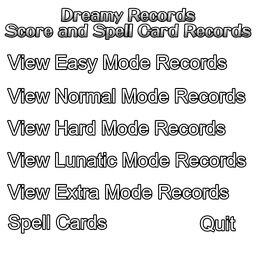
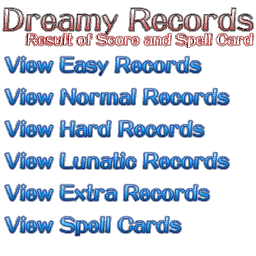
Redraw the English records menu in the original text style
tools/menu_text_art.py measures how an original sprite colors each pixel by row, distance from the glyph edge and edge direction. New text drawn at the original size takes the same gradient, outline, bevel and glow.

The records menu rows, Dreamy Records and the subtitle now use DF Popcorn W12 in those measured styles. Rows read View Easy Records and so on, which fits the sprite at the original size. The subtitle and Quit keep the original pixels.

result01 is English in the original, so its overlay is removed and English uses the original sheet.

diff --git a/tools/menu_text_art.py b/tools/menu_text_art.py
@@ -1,0 +1,206 @@
+"""Draw English menu text in the style of an original Japanese sprite.
+
+measure() records how the original sprite colors each pixel, keyed by:
+- the sprite row, which carries vertical gradients
+- the signed distance to the edge of the solid glyph area, which carries
+  outlines inside the edge and glows outside it
+- the direction the nearest edge faces, which carries bevel highlights
+render() colors new glyphs by looking up the same keys. English text drawn at
+the original size and baseline therefore takes the original's gradient,
+outline, bevel and glow.
+"""
+import numpy as np
+from PIL import Image, ImageDraw, ImageFont
+from scipy import ndimage
+
+SS = 4
+SOLID = 238
+# Signed distance buckets in half pixels, from 6 px outside to 4 px inside.
+DISTANCES = np.arange(-12, 9)
+
+
+def features(area_hi, sub_pixels=False):
+    """Signed distance and edge direction for a supersampled mask.
+
+    Returns one value per pixel, or one per sub-pixel when sub_pixels is true.
+    """
+    inside = ndimage.distance_transform_edt(area_hi)/SS
+    outside = ndimage.distance_transform_edt(~area_hi)/SS
+    smooth = ndimage.gaussian_filter(area_hi.astype(float), 1.5*SS)
+    gy, gx = np.gradient(smooth)
+    # Sub-pixel distances are measured from the edge between solid and clear
+    # sub-pixels, so shift them by half a sub-pixel toward zero.
+    signed = inside - outside + np.where(area_hi, -.5, .5)/SS
+    if not sub_pixels:
+        signed = (inside - outside)[SS//2::SS, SS//2::SS]
+        gy, gx = gy[SS//2::SS, SS//2::SS], gx[SS//2::SS, SS//2::SS]
+    length = np.hypot(gx, gy) + 1e-9
+    # Coverage rises toward the glyph, so the gradient points inward.
+    # direction 0: edge faces up, 1: sideways, 2: edge faces down.
+    ny = gy/length
+    direction = np.where(ny > .4, 0, np.where(ny < -.4, 2, 1))
+    # Edge direction matters only near the edge. Deeper pixels share one key.
+    direction = np.where(np.abs(signed) <= 1.5, direction, 1)
+    bucket = np.clip(np.round(signed*2).astype(int), DISTANCES[0], DISTANCES[-1]) - DISTANCES[0]
+    return bucket, direction
+
+
+def measure(sprite, ignore=None):
+    """Build the color table of an original sprite.
+
+    Pixels where ignore is true belong to other text and are left out.
+    """
+    pixels = np.asarray(sprite.convert('RGBA')).astype(float)
+    alpha = pixels[..., 3:]/255
+    premultiplied = pixels[..., :3]*alpha
+    area = np.kron(pixels[..., 3] >= SOLID, np.ones((SS, SS))).astype(bool)
+    bucket, direction = features(area)
+    valid = np.ones(alpha.shape[:2], bool) if ignore is None else ~ignore
+    height = len(pixels)
+    sums = np.zeros((height, len(DISTANCES), 3, 5))
+    for y in range(height):
+        for x in np.nonzero(valid[y])[0]:
+            sums[y, bucket[y, x], direction[y, x]] += [*premultiplied[y, x], alpha[y, x, 0], 1]
+    return sums
+
+
+def lookup(sums, y, bucket, direction):
+    """Mean premultiplied color and alpha, widening the search when a key is empty."""
+    for rows in (1, 2, 4, 8, 64):
+        lo, hi = max(0, y - rows), y + rows + 1
+        for dirs in ((direction,), (0, 1, 2)):
+            for spread in (0, 1, 2):
+                b0, b1 = max(0, bucket - spread), bucket + spread + 1
+                total = sums[lo:hi, b0:b1][:, :, list(dirs)].sum((0, 1, 2))
+                if total[4] > 0:
+                    return total[:4]/total[4]
+    return np.zeros(4)
+
+
+def glyphs(text, font_path, size, x, y, width, height, scale_x=1.0, track=0.0):
+    """Supersampled glyph mask with the text origin at (x, y).
+
+    track adds that many pixels between characters.
+    """
+    font = ImageFont.truetype(str(font_path), round(size*SS))
+    line = Image.new('L', (int(font.getlength(text) + max(track, 0)*SS*len(text)) + 16*SS, height*SS))
+    draw = ImageDraw.Draw(line)
+    if track:
+        cursor = 0.0
+        for character in text:
+            draw.text((round(cursor), round(y*SS)), character, font=font, fill=255)
+            cursor += font.getlength(character) + track*SS
+    else:
+        draw.text((0, round(y*SS)), text, font=font, fill=255)
+    if scale_x != 1.0:
+        line = line.resize((max(1, round(line.width*scale_x)), line.height), Image.Resampling.LANCZOS)
+    mask = Image.new('L', (width*SS, height*SS))
+    mask.paste(line, (round(x*SS), 0))
+    return np.asarray(mask) > 127
+
+
+def solid(glyph, outline):
+    radius = round(outline*SS)
+    if radius <= 0:
+        return glyph
+    y, x = np.mgrid[-radius:radius + 1, -radius:radius + 1]
+    return ndimage.binary_dilation(glyph, structure=x*x + y*y <= radius*radius)
+
+
+def coverage(mask):
+    h, w = mask.shape[0]//SS, mask.shape[1]//SS
+    return mask.reshape(h, SS, w, SS).mean((1, 3))
+
+
+def ink_width(text, font_path, size, scale_x=1.0, track=0.0):
+    mask = glyphs(text, font_path, size, 0, 0, 1024, round(size*2), scale_x, track)
+    columns = np.nonzero(mask.any(0))[0]
+    return (columns.max() + 1 - columns.min())/SS, columns.min()/SS
+
+
+def fit(sprite, text, font_path, sizes, outlines=(0, .5, 1, 1.5), stretches=(1.0,), tracks=(0.0,)):
+    """Find size, stretch, spacing, origin and outline that best cover the original solid area."""
+    target = np.asarray(sprite.convert('RGBA'))[..., 3] >= SOLID
+    height, width = target.shape
+    rows, cols = np.nonzero(target.any(1))[0], np.nonzero(target.any(0))[0]
+    best = (-1,)
+    for size, stretch, track in ((s, st, tr) for s in sizes for st in stretches for tr in tracks):
+            probe = glyphs(text, font_path, size, 0, 0, width + 64, height + 32, stretch, track)
+            pr, pc = np.nonzero(probe.any(1))[0], np.nonzero(probe.any(0))[0]
+            for outline in outlines:
+                x0 = cols.min() + outline - pc.min()/SS
+                y0 = rows.min() + outline - pr.min()/SS
+                for dx in (-.5, 0, .5):
+                    for dy in (-.5, 0, .5):
+                        area = solid(glyphs(text, font_path, size, x0 + dx, y0 + dy, width, height, stretch, track), outline)
+                        mask = coverage(area) >= .5
+                        score = (mask & target).sum()/max((mask | target).sum(), 1)
+                        if score > best[0]:
+                            best = (score, size, stretch, track, x0 + dx, y0 + dy, outline)
+    return dict(zip(('score', 'size', 'stretch', 'track', 'x', 'y', 'outline'), best))
+
+
+def render(glyph, outline, sums, sharp=True):
+    """Color a glyph mask from a measured color table. Returns a 4-bit RGBA image.
+
+    sharp colors each pixel at its center and blends the two nearest distance
+    buckets, which keeps the crisp highlight and outline rows of the originals.
+    Otherwise each sub-pixel takes its own color and the result is averaged down.
+    """
+    area = solid(glyph, outline)
+    height, width = area.shape[0]//SS, area.shape[1]//SS
+    cache = {}
+    def color(y, bucket, direction):
+        key = (y, bucket, direction)
+        if key not in cache:
+            cache[key] = lookup(sums, *key)
+        return cache[key]
+    if sharp:
+        inside = ndimage.distance_transform_edt(area)/SS
+        outside = ndimage.distance_transform_edt(~area)/SS
+        signed = (inside - outside)[SS//2::SS, SS//2::SS]
+        _, direction = features(area)
+        position = np.clip(signed*2, DISTANCES[0], DISTANCES[-1]) - DISTANCES[0]
+        low = np.floor(position).astype(int)
+        high = np.minimum(low + 1, len(DISTANCES) - 1)
+        weight = (position - low)[..., None]
+        out = np.zeros((height, width, 4))
+        for y in range(height):
+            for x in range(width):
+                d = direction[y, x]
+                out[y, x] = color(y, low[y, x], d)*(1 - weight[y, x]) + color(y, high[y, x], d)*weight[y, x]
+    else:
+        bucket, direction = features(area, sub_pixels=True)
+        rows = np.repeat(np.arange(height), SS)[:, None]*np.ones((1, width*SS), int)
+        keys = np.stack([rows, bucket, direction], -1)
+        unique, inverse = np.unique(keys.reshape(-1, 3), axis=0, return_inverse=True)
+        table = np.array([color(*key) for key in unique])
+        out = table[inverse.ravel()].reshape(height, SS, width, SS, 4).mean((1, 3))
+    alpha = out[..., 3]
+    rgb = np.where(alpha[..., None] > 1e-4, out[..., :3]/np.maximum(alpha[..., None], 1e-4), 0)
+    def quantize(v): return (np.clip(np.round(v/17), 0, 15)*17).astype(np.uint8)
+    return Image.fromarray(np.dstack([quantize(rgb), quantize(alpha*255)]), 'RGBA')
+
+
+def redraw(sprite, original_text, text, font_path, sizes, max_width=None, align='left',
+           stretches=(1.0, 1.05, 1.1, 1.15, 1.2)):
+    """Measure the original sprite and draw text in its place and style.
+
+    The English text uses the fitted size, stretch and baseline. Text wider
+    than max_width is condensed horizontally.
+    """
+    sums = measure(sprite)
+    geometry = fit(sprite, original_text, font_path, sizes, stretches=stretches)
+    width, height = sprite.size
+    max_width = max_width or width - 2*geometry['x']
+    ink, offset = ink_width(text, font_path, geometry['size'], geometry['stretch'])
+    scale = min(1.0, max_width/ink)
+    stretch = geometry['stretch']*scale
+    if align == 'left':
+        x = geometry['x']
+    elif align == 'center':
+        x = (width - ink*scale)/2 - offset*scale
+    else:
+        x = width - geometry['x'] - ink*scale - offset*scale
+    glyph = glyphs(text, font_path, geometry['size'], x, geometry['y'], width, height, stretch)
+    return render(glyph, geometry['outline'], sums), geometry, scale

diff --git a/tools/prepare_records_ui.py b/tools/prepare_records_ui.py
@@ -1,58 +1,115 @@
-"""Generate the records menu's clean, aligned English overlays."""
+"""Generate the records menu's English overlay in the original text style.
+
+Usage:
+    python tools/prepare_records_ui.py <converted assets> <popw12.ttf>
+
+<converted assets> is a converter output folder with the original textures,
+such as the one Build.ps1 uses. DF Popcorn W12 is the font of the original
+menu text and is not part of this repository.
+
+result01 (Easy, Normal, Hard, Lunatic, Extra, Spell Card) is English in the
+original, so English uses that sheet unchanged.
+"""
 from pathlib import Path
-from PIL import Image, ImageDraw, ImageFont
+import sys
+import numpy as np
+from PIL import Image, ImageDraw
+
+sys.path.insert(0, str(Path(__file__).resolve().parent/'converter'))
+import menu_text_art as art
+from graphics import decode_texture
+
+ROWS = ['View Easy Records', 'View Normal Records', 'View Hard Records',
+        'View Lunatic Records', 'View Extra Records']
+ROW_SIZES = np.arange(18, 26, .5)
 
 
-def label(text, width, height, size, font_path, cyan=False):
-    scale = 3
-    font = ImageFont.truetype(str(font_path), size*scale)
-    image = Image.new('RGBA', (width*scale, height*scale))
-    draw = ImageDraw.Draw(image)
-    box = draw.textbbox((0, 0), text, font=font)
-    x, y = 8*scale-box[0], (height*scale-(box[3]-box[1]))//2-box[1]
-    draw.text((x, y), text, font=font, fill='white', stroke_width=scale, stroke_fill='black')
-    if cyan:
-        # Match the native colored headings while keeping our UI typeface.
-        face = Image.new('L', image.size)
-        ImageDraw.Draw(face).text((x, y), text, font=font, fill=255)
-        gradient = Image.new('RGBA', image.size)
-        pixels = gradient.load()
-        for row in range(image.height):
-            fraction = row/max(1, image.height-1)
-            color = (round(255-127*fraction), 255, 255, 255)
-            for col in range(image.width):
-                pixels[col, row] = color
-        image.paste(gradient, (0, 0), face)
-    return image.resize((width, height), Image.Resampling.LANCZOS)
+def sprite(sheet, x, y, width, height):
+    return sheet.crop((x, y, x + width, y + height))
 
 
-def prepare(resources):
-    resources = Path(resources)
-    font_path = Path('C:/Windows/Fonts/arial.ttf')
-    if not font_path.exists():
-        font_path = resources/'latin-font.ttf'
-    overlay = Image.open(resources/'result00.anm.bin.overlay.png').convert('RGBA')
-    mask = Image.open(resources/'result00.anm.bin.mask.png').convert('L')
-    rows = ['View Easy Mode Records', 'View Normal Mode Records',
-            'View Hard Mode Records', 'View Lunatic Mode Records', 'View Extra Mode Records', 'Spell Cards']
-    for index, text in enumerate(rows):
-        y, width = 48+32*index, 192 if index == 5 else 256
-        overlay.paste(label(text, width, 32, 19, font_path), (0, y))
-        ImageDraw.Draw(mask).rectangle((0, y, width-1, y+31), fill=255)
-    overlay.paste(label('Quit', 64, 32, 19, font_path), (192, 208))
-    ImageDraw.Draw(mask).rectangle((192, 208, 255, 239), fill=255)
-    overlay.save(resources/'result00.anm.bin.overlay.png')
-    mask.save(resources/'result00.anm.bin.mask.png')
+def heading(original, pop):
+    """Draw "Dreamy Records" and its subtitle in the style of 夢の記録 and its subtitle."""
+    width, height = original.size
+    rows, cols = np.mgrid[:height, :width]
+    # The subtitle covers the lower right. The rest is 夢の記録.
+    subtitle_area = (rows >= 30) & (cols >= 26)
+    title_style = art.measure(original, ignore=subtitle_area)
+    geometry = art.fit(sprite(original, 0, 0, 160, 30), '夢の記録', pop, np.arange(30, 44, 1.0))
+    # Shrink the size until the line fits the sprite.
+    size = geometry['size']
+    while art.ink_width('Dreamy Records', pop, size)[0] > width - 2*geometry['x'] - 2*geometry['outline']:
+        size -= .5
+    # The fill follows the sprite rows, so align the ink top with 夢の記録.
+    heading_rows = np.nonzero(((np.asarray(original)[..., 3] >= art.SOLID) & ~subtitle_area).any(1))[0]
+    probe = art.glyphs('Dreamy Records', pop, size, 0, 0, 512, 96)
+    top = heading_rows.min() - np.nonzero(probe.any(1))[0].min()/art.SS
+    glyph = art.glyphs('Dreamy Records', pop, size, geometry['x'], top, width, height)
+    # 夢の記録 has heavier strokes than DF Popcorn's Latin. Thicken the glyphs
+    # until their mean stroke width (twice area over edge length) matches.
+    def stroke(mask):
+        edge = mask & ~art.ndimage.binary_erosion(mask)
+        return 2*mask.sum()/max(edge.sum(), 1)/art.SS
+    heading_ink = np.kron((np.asarray(original)[..., 3] >= art.SOLID) & ~subtitle_area,
+                          np.ones((art.SS, art.SS))).astype(bool)
+    target = stroke(heading_ink)
+    weight = 0.0
+    while stroke(art.solid(glyph, weight + geometry['outline'] + .25)) <= target and weight < 3:
+        weight += .25
+    glyph = art.solid(glyph, weight)
+    image = art.render(glyph, geometry['outline'], title_style)
+
+    # The subtitle is English in the original and is drawn over 夢の記録.
+    # Fit it on "Spell Card", which is clear of the heading, then copy the
+    # original pixels wherever the fitted line fully covers them. Only the
+    # glow around it is redrawn.
+    text, tail = 'Result of Score and Spell Card', 'Spell Card'
+    # A gap at x = 171-174 separates "and" from "Spell".
+    spell = 173
+    tail_geometry = art.fit(sprite(original, spell, 26, width - spell, height - 26), tail, pop,
+                            np.arange(13, 19, .5), outlines=(.5, 1), tracks=(0, .5, 1, 1.5, 2))
+    font = art.ImageFont.truetype(str(pop), round(tail_geometry['size']*art.SS))
+    prefix = text[:-len(tail)]
+    advance = (font.getlength(prefix) + len(prefix)*tail_geometry['track']*art.SS)/art.SS
+    glyph = art.glyphs(text, pop, tail_geometry['size'], spell + tail_geometry['x'] - advance,
+                       26 + tail_geometry['y'], width, height, track=tail_geometry['track'])
+    subtitle_style = art.measure(original, ignore=~subtitle_area | (cols < 150))
+    subtitle = art.render(glyph, tail_geometry['outline'], subtitle_style)
+    covered = art.coverage(art.solid(glyph, tail_geometry['outline'])) >= 1
+    pixels = np.asarray(subtitle).copy()
+    pixels[covered] = np.asarray(original)[covered]
+    image.alpha_composite(Image.fromarray(pixels, 'RGBA'))
+    return image
+
+
+def prepare(resources, assets, pop):
+    resources, assets = Path(resources), Path(assets)
+    original = decode_texture(assets/'textures/result00.anm.bin')
     overlay = Image.new('RGBA', (256, 256))
     mask = Image.new('L', overlay.size)
-    for text, x, y, width in [('Easy', 0, 0, 112), ('Normal', 112, 0, 144),
-                              ('Hard', 0, 48, 112), ('Lunatic', 112, 48, 144),
-                              ('Extra', 0, 96, 112), ('Spell Cards', 0, 144, 256)]:
-        overlay.paste(label(text, width, 48, 24, font_path, True), (x, y))
-        ImageDraw.Draw(mask).rectangle((x, y, x+width-1, y+47), fill=255)
-    overlay.save(resources/'result01.anm.bin.overlay.png')
-    mask.save(resources/'result01.anm.bin.mask.png')
+    def place(image, x, y):
+        overlay.paste(image, (x, y))
+        ImageDraw.Draw(mask).rectangle((x, y, x + image.width - 1, y + image.height - 1), fill=255)
+    place(heading(sprite(original, 0, 0, 256, 48), pop), 0, 0)
+    # The rows share one style. Pool their colors, and take the size and
+    # baseline from the Latin "Normal", since the English rows are all Latin.
+    rows = [sprite(original, 0, 48 + 32*index, 256, 32) for index in range(5)]
+    colors = sum(art.measure(row) for row in rows)
+    normal = np.asarray(rows[1])[..., 3] >= art.SOLID
+    end = next(c for c in range(256) if normal[:, :c].any() and not normal[:, c:c + 3].any())
+    geometry = art.fit(rows[1].crop((0, 0, end, 32)), 'Normal', pop, ROW_SIZES)
+    def row(text, width):
+        glyph = art.glyphs(text, pop, geometry['size'], geometry['x'], geometry['y'], width, 32)
+        return art.render(glyph, geometry['outline'], colors)
+    for index, text in enumerate(ROWS):
+        place(row(text, 256), 0, 48 + 32*index)
+    place(row('View Spell Cards', 192), 0, 208)
+    # Quit at (192, 208) is English in the original and stays unchanged.
+    overlay.save(resources/'result00.anm.bin.overlay.png')
+    mask.save(resources/'result00.anm.bin.mask.png')
+    for name in ('result01.anm.bin.overlay.png', 'result01.anm.bin.mask.png'):
+        (resources/name).unlink(missing_ok=True)
 
 
 if __name__ == '__main__':
-    prepare(Path(__file__).resolve().parent/'converter/resources')
+    prepare(Path(__file__).resolve().parent/'converter/resources', *sys.argv[1:3])
